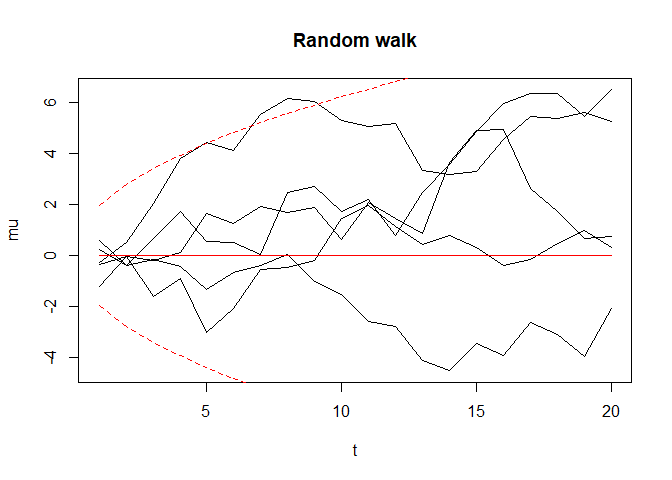
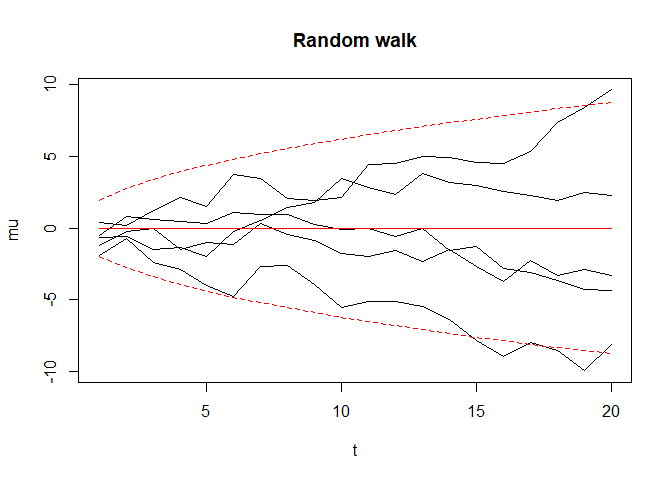
Updated formatting

diff --git a/README.md b/README.md
@@ -23,10 +23,12 @@ A state-space model can be made up of:
     *P*(*x*<sub>*t* + 1</sub>\|*x*<sub>*t*</sub>)
 -   Where *x*<sub>*t*</sub> and *y*<sub>*t*</sub> satisfy the Markov
     equations:
-    *P*(*y*<sub>*t* + 1</sub>, *x*<sub>*t* + 1</sub>\|*y*<sub>*t*</sub>, *x*<sub>*t*</sub>, ..., *y*<sub>1</sub>, *x*<sub>1</sub>) = *P*(*y*<sub>*t* + 1</sub>, *x*<sub>*t* + 1</sub>\|*y*<sub>*t*</sub>, *x*<sub>*t*</sub>)
-    *P*(*y*<sub>*t* + 1</sub>\|*x*<sub>*t* + 1</sub>, *y*<sub>*t*</sub>, *x*<sub>*t*</sub>) = *P*(*y*<sub>*t* + 1</sub>\|*x*<sub>*t* + 1</sub>)
--   Which implies that
-    *P*(*y*<sub>*t* + 1</sub>, *x*<sub>*t* + 1</sub>\|*y*<sub>*t*</sub>, *x*<sub>*t*</sub>) = *P*(*y*<sub>*t* + 1</sub>\|*x*<sub>*t* + 1</sub>)*P*(*x*<sub>*t* + 1</sub>\|*x*<sub>*t*</sub>)
+
+*P*(*y*<sub>*t* + 1</sub>, *x*<sub>*t* + 1</sub>\|*y*<sub>*t*</sub>, *x*<sub>*t*</sub>, ..., *y*<sub>1</sub>, *x*<sub>1</sub>) = *P*(*y*<sub>*t* + 1</sub>, *x*<sub>*t* + 1</sub>\|*y*<sub>*t*</sub>, *x*<sub>*t*</sub>)
+
+*P*(*y*<sub>*t* + 1</sub>\|*x*<sub>*t* + 1</sub>, *y*<sub>*t*</sub>, *x*<sub>*t*</sub>) = *P*(*y*<sub>*t* + 1</sub>\|*x*<sub>*t* + 1</sub>)
+- Which implies that
+*P*(*y*<sub>*t* + 1</sub>, *x*<sub>*t* + 1</sub>\|*y*<sub>*t*</sub>, *x*<sub>*t*</sub>) = *P*(*y*<sub>*t* + 1</sub>\|*x*<sub>*t* + 1</sub>)*P*(*x*<sub>*t* + 1</sub>\|*x*<sub>*t*</sub>)
 
 Obtaining the conditional distribution
 *P*(*x*<sub>*t*</sub>\|*y*<sub>*t*</sub>, ..., *y*<sub>1</sub>), from
@@ -41,6 +43,7 @@ White noise is the core of a stochastic time series model.
 
 ``` r
 # Set simulation parameters
+set.seed(1)
 n_t <- 20
 t <- 1:n_t
 n_reals <- 5
@@ -63,8 +66,11 @@ matlines(t, quants, col = 'red', lty = q_lty)
 The steps in a random walk are white noise.
 
 *a*<sub>*t*</sub> ∼ *N*(0, *τ*<sup>2</sup>)
+
 *μ*<sub>*t* + 1</sub> = *μ*<sub>*t*</sub> + *a*<sub>*t*</sub>
+
 *μ*<sub>*t* + 1</sub>\|*μ*<sub>*t*</sub> ∼ *N*(*μ*<sub>*t*</sub>, *τ*<sup>2</sup>)
+
 *u*<sub>0</sub> = 0 ⟹ *μ*<sub>*t*</sub> ∼ *N*(0, *t**τ*<sup>2</sup>)
 
 ``` r
@@ -82,7 +88,9 @@ matlines(t, quants * sqrt(t), col = 'red', lty = q_lty)
 ### Quarterly random walk
 
 *μ*<sub>*t* + 1</sub> = *μ*<sub>*t* − 3</sub> + *a*<sub>*t*</sub>
+
 *μ*<sub>*t* + 1</sub>\|*μ*<sub>*t* − 3</sub> ∼ *N*(*μ*<sub>*t* − 3</sub>,*τ*<sup>2</sup>)
+
 $$u\_0 = 0 \\implies \\mu\_t \\sim N \\left( 0, ceiling \\left( \\frac{t}{4} \\right) \\tau^2 \\right)$$
 
 ``` r
@@ -102,9 +110,13 @@ matlines(t, quants * sqrt(ceiling(t / 4)), col = 'red', lty = q_lty)
 ### Evolving variance
 
 *h*<sub>*t* + 1</sub> = *h*<sub>*t*</sub> + *a*<sub>*t*</sub>
+
 $$y\_t = \\exp \\left( \\frac{h\_t}{2} \\right) e\_t$$
+
 *y*<sub>*t*</sub> ≁ *N*
+
 *y*<sub>*t*</sub>\|*h*<sub>*t*</sub> ∼ *N*(0, exp (*h*<sub>*t*</sub>))
+
 *h*<sub>0</sub> = 0 ⟹ log {*v**a**r*(*y*<sub>*t*</sub>)} ∼ *N*(0, *t**τ*<sup>2</sup>)
 
 ``` r
@@ -123,7 +135,9 @@ lines(rep(0, n_t), col = 'red')
 ### Filtering for a random walk plus white noise model
 
 *y*<sub>*t*</sub> = *μ*<sub>*t*</sub> + *e*<sub>*t*</sub>
+
 *y*<sub>*t*</sub>\|*μ*<sub>*t*</sub> ∼ *N*(*μ*<sub>*t*</sub>, *σ*<sup>2</sup>)
+
 *y*<sub>*t*</sub> ∼ *N*(0, *t**τ*<sup>2</sup> + *σ*<sup>2</sup>)
 
 ``` r
@@ -136,14 +150,23 @@ matlines(t, quants * sqrt(t + 1), col = 'red', lty = q_lty)
 
 ![](README_files/figure-gfm/unnamed-chunk-5-1.png)<!-- -->
 *x*<sub>*t*</sub> := *μ*<sub>*t*</sub>
+
 *ỹ*<sub>*t*</sub> ∼ *N*(*x̃*<sub>*t*</sub>, *σ*<sup>2</sup>*I*<sub>*t*</sub>)
+
 *x̃*<sub>*t*</sub> ∼ *N*(*x̃*<sub>*t* − 1</sub>, *τ*<sup>2</sup>*I*<sub>*t*</sub>)
+
  ⟹ (*x̃*<sub>*t*</sub>, *ỹ*<sub>*t*</sub>) ∼ *N*
+
 *E*(*x̃*<sub>*t*</sub>\|*ỹ*<sub>*t*</sub>) = *E*(*x̃*<sub>*t*</sub>) + *C**o**v*(*x̃*<sub>*t*</sub>, *ỹ*<sub>*t*</sub>)*V**a**r*(*ỹ*<sub>*t*</sub>)<sup> − 1</sup>{*ỹ*<sub>*t*</sub> − *E*(*ỹ*<sub>*t*</sub>)}
+
 *V**a**r*(*x̃*<sub>*t*</sub>\|*ỹ*<sub>*t*</sub>) = *V**a**r*(*x̃*<sub>*t*</sub>) − *C**o**v*(*x̃*<sub>*t*</sub>, *ỹ*<sub>*t*</sub>)*V**a**r*(*ỹ*<sub>*t*</sub>)<sup> − 1</sup>*C**o**v*(*ỹ*<sub>*t*</sub>, *x̃*<sub>*t*</sub>)
+
 *E*(*x̃*<sub>*t*</sub>) = *E*(*ỹ*<sub>*t*</sub>) = 0
+
 *C**o**v*(*x̃*<sub>*t*</sub>, *ỹ*<sub>*t*</sub>) = *C**o**v*(*ỹ*<sub>*t*</sub>, *x̃*<sub>*t*</sub>)′ = (*C**o**v*(*x̃*<sub>*t*</sub>, *x̃*<sub>*t*</sub>) + *C**o**v*(*ẽ*<sub>*t*</sub>, *x̃*<sub>*t*</sub>))′ = *V**a**r*(*x̃*<sub>*t*</sub>)
+
 *V**a**r*(*ỹ*<sub>*t*</sub>) = *V**a**r*(*x̃*<sub>*t*</sub>) + *σ*<sup>2</sup>*I*<sub>*t*</sub>
+
 $$
 \\begin{bmatrix} 
 1  & &  &\\\\ 
@@ -167,14 +190,23 @@ a\_1 \\\\
 a\_t \\\\ 
 \\end{bmatrix}
 $$
+
 *D*<sub>*t*</sub>*x̃*<sub>*t*</sub> = *g̃*<sub>*t*</sub>*x*<sub>1</sub> + *ã*<sub>*t*</sub>
+
 *D*<sub>*t*</sub>*V**a**r*(*x̃*<sub>*t*</sub>)*D*<sub>*t*</sub>′ = *K*<sup>2</sup>*g̃*<sub>*t*</sub>*g̃*<sub>*t*</sub>′ + *τ*<sup>2</sup>*I*<sub>*t*</sub>
+
 *x*<sub>1</sub> ∼ *N*(0, *K*<sup>2</sup>)
+
 *V**a**r*(*x̃*<sub>*t*</sub>) = *K*<sup>2</sup>*D*<sub>*t*</sub><sup> − 1</sup>*g̃*<sub>*t*</sub>*g̃*<sub>*t*</sub>′*D*<sub>*t*</sub>′<sup> − 1</sup> + *τ*<sup>2</sup>*D*<sub>*t*</sub><sup> − 1</sup>*D*<sub>*t*</sub>′<sup> − 1</sup>
+
 *E*(*x̃*<sub>*t*</sub>\|*ỹ*<sub>*t*</sub>) = *V**a**r*(*x̃*<sub>*t*</sub>){*V**a**r*(*x̃*<sub>*t*</sub>) + *σ*<sup>2</sup>*I*<sub>*t*</sub>}<sup> − 1</sup>*ỹ*<sub>*t*</sub>
+
 *V**a**r*(*x̃*<sub>*t*</sub>\|*ỹ*<sub>*t*</sub>) = *V**a**r*(*x̃*<sub>*t*</sub>) − *V**a**r*(*x̃*<sub>*t*</sub>){*V**a**r*(*x̃*<sub>*t*</sub>) + *σ*<sup>2</sup>*I*<sub>*t*</sub>}<sup> − 1</sup>*V**a**r*(*x̃*<sub>*t*</sub>)
+
  ⟹ *x̃*<sub>*t*</sub>\|*ỹ*<sub>*t*</sub>
+
  ⟹ *ỹ*<sub>*t* + *k*</sub>\|*ỹ*<sub>*t*</sub>
+
 *K* = 0, *τ* = 1, *σ* = 1 ⟹ *V**a**r*(*x̃*<sub>*t*</sub>) = *D*<sub>*t*</sub><sup> − 1</sup>*D*<sub>*t*</sub>′<sup> − 1</sup>
 
 ``` r
